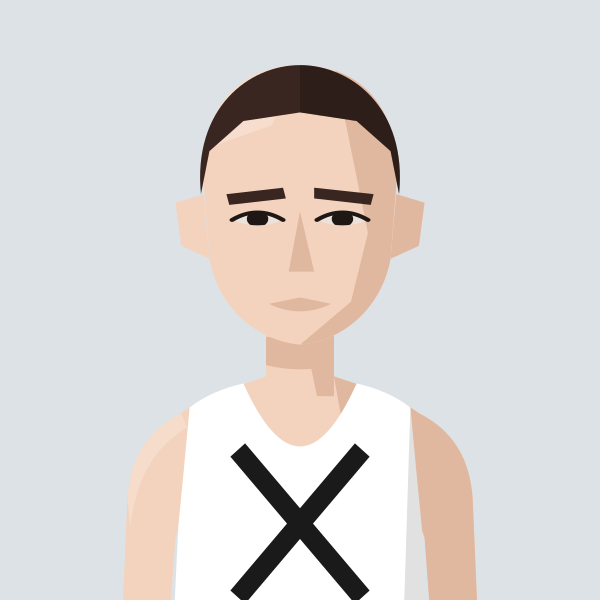
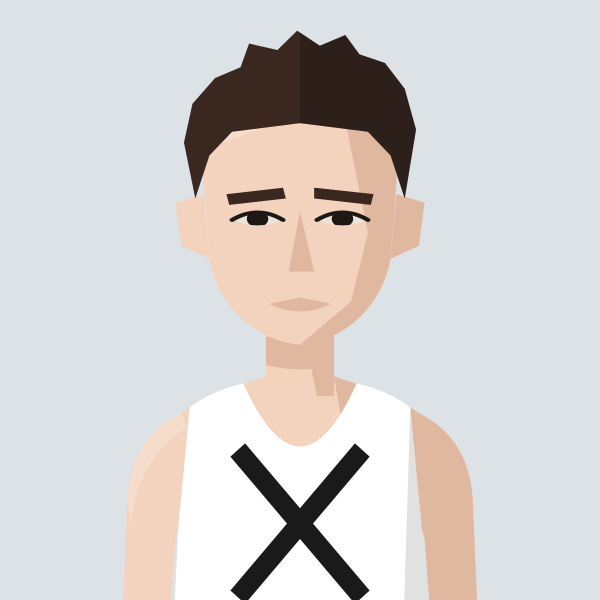
Jared Martin: short textured dark hair, from photo
Claude-Session: https://claude.ai/code/session_01MgmDWhFqnSSnP4iBLKXUZC

Changed region(s): [[0.3, 0.03, 0.69, 0.33]]

diff --git a/files/index.html b/files/index.html
@@ -581,7 +581,7 @@ return m;})();
 const portraitFile=(name,club)=>{const k=normalizeNameForCompare(name||'').replace(/\s*\([^)]*\)$/,'');const a=PORTRAITS[k];if(a&&a.club===club)return a.file;const b=PORTRAITS[k+'@'+club];return b?b.file:null;};
 // Athlete header figure: superstar portrait if we have one, else a grey runner in the club vest, else the plain vest icon
 // Changes whenever any portrait changes (set by tools/build_og.py), so browsers fetch fresh images instead of old cached ones
-const PORTRAIT_V='6fa24eef';
+const PORTRAIT_V='e11bab0e';
 const AthletePortrait=({name,club,w,fill,onClick})=>{const[failed,setFailed]=useState(false);const file=portraitFile(name,club);const src=file?`/portraits/athletes/${file}.svg?v=${PORTRAIT_V}`:PORTRAIT_CLUBS.has(club)?`/portraits/clubs/${club.replace(/\//g,'').replace(/&/g,'and')}.svg?v=${PORTRAIT_V}`:null;if(!src||failed)return<div onClick={onClick} className={onClick?'cursor-pointer':''}><ClubShield club={club} size={w}/></div>;const h=Math.round(w*148/126),ih=Math.round(w*1.4);if(fill)return<div onClick={onClick} className="cursor-pointer" style={{alignSelf:'stretch',minHeight:h,aspectRatio:'126 / 148',flexShrink:0,position:'relative',borderRadius:4,overflow:'hidden'}}><img src={src} alt={file?`Portrait of ${name.replace(/\s*\([^)]*\)$/,'')}`:`Runner in ${CLUBS[club]?.name||club} vest`} style={{position:'absolute',top:0,left:0,display:'block',width:'100%',height:'auto'}} onError={()=>setFailed(true)}/></div>;return<div style={{width:w,height:h,borderRadius:4,overflow:'hidden',flexShrink:0}}><img src={src} alt={file?`Portrait of ${name.replace(/\s*\([^)]*\)$/,'')}`:`Runner in ${CLUBS[club]?.name||club} vest`} width={w} height={ih} style={{display:'block',width:w,height:ih}} onError={()=>setFailed(true)}/></div>;};
 const getClubVestSvg=(club)=>{
   const p="M3 0 L6 0 Q7 4 10 5 Q13 4 14 0 L17 0 L17 20 L3 20 Z";

diff --git a/tools/gen_portraits.py b/tools/gen_portraits.py
@@ -695,3 +695,4 @@ save("katie-snowden", figure("HHH", skin=1, hair="ponytail", hair_colour="#D2B27
 save("kate-axford", figure("BEL", skin=1, hair="highpony", hair_colour="#D9BC86", necklace="#C9A646"))
 save("sarah-astin", figure("BEL", skin=1, hair="halfup", hair_colour="#3A2620", necklace="#D4D4D4"))
 save("georgie-bruinvels", figure("SLH", skin=1, hair="curlyup", hair_colour="#C2602A"))
+save("jared-martin", figure("THH", skin=1, hair="tousled", hair_colour="#3A2820"))
